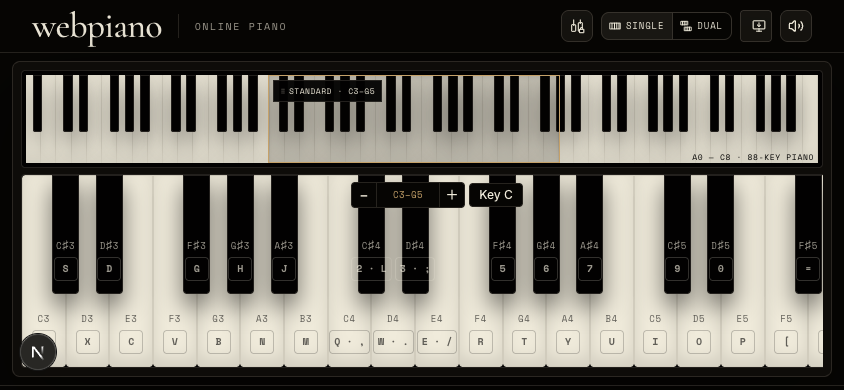
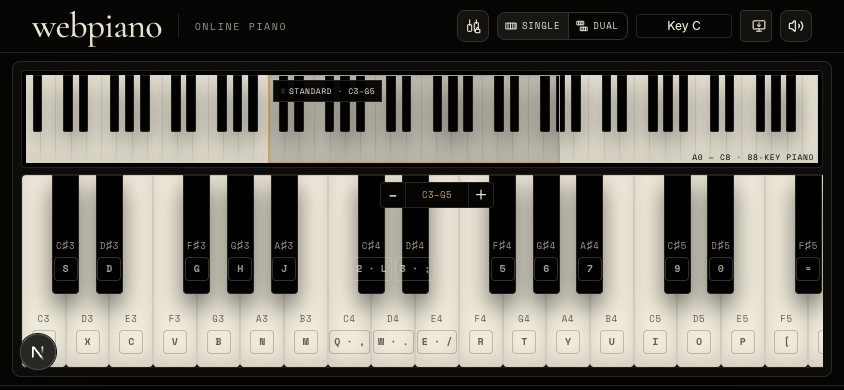
fix: move transposition readout into header

Changed region(s): [[0.5545, 0.0308, 0.8626, 0.1231], [0.4005, 0.4615, 0.6469, 0.5538]]

diff --git a/src/components/piano-keyboard-view.tsx b/src/components/piano-keyboard-view.tsx
@@ -6,7 +6,6 @@ import type {
 } from "react"
 import { useRef, useState } from "react"
 
-import { Badge } from "@/components/ui/badge"
 import { Button } from "@/components/ui/button"
 import {
   FULL_PIANO_KEYS,
@@ -18,7 +17,6 @@ import {
   STANDARD_RANGE_NOTE_COUNT,
   UPPER_RANGE_NOTE_COUNT,
   formatPianoRange,
-  formatTranspositionKey,
   getClosestFullPianoMidi,
   getFullPianoRangeBounds,
 } from "@/lib/piano"
@@ -162,43 +160,32 @@ function RangeStepper({
   zone: PianoZone | "standard"
 }) {
   const zoneLabel = zone === "standard" ? "Standard" : zone === "lower" ? "Lower" : "Upper"
-  const transpositionKey = formatTranspositionKey(startMidi)
-
   return (
-    <div className="flex items-center gap-1">
-      <div className="flex items-center overflow-hidden rounded-sm border border-border bg-background">
-        <Button
-          aria-label={`${zoneLabel} semitone down`}
-          disabled={startMidi === FULL_PIANO_MIN_MIDI}
-          size="icon-xs"
-          variant="ghost"
-          onClick={() => onRangeChange(startMidi - 1)}
-        >
-          −
-        </Button>
-        <output
-          aria-label={`${zoneLabel} range`}
-          className="grid h-6 min-w-16 place-items-center border-x border-border px-1 font-mono text-[0.5625rem] tracking-[0.06em] text-brass"
-        >
-          {formatPianoRange(startMidi, noteCount)}
-        </output>
-        <Button
-          aria-label={`${zoneLabel} semitone up`}
-          disabled={startMidi === maximumStartMidi}
-          size="icon-xs"
-          variant="ghost"
-          onClick={() => onRangeChange(startMidi + 1)}
-        >
-          ＋
-        </Button>
-      </div>
-      <Badge
-        aria-label={`${zoneLabel} transposition key ${transpositionKey}`}
-        className="h-6 min-w-14"
-        variant="outline"
+    <div className="flex items-center overflow-hidden rounded-sm border border-border bg-background">
+      <Button
+        aria-label={`${zoneLabel} semitone down`}
+        disabled={startMidi === FULL_PIANO_MIN_MIDI}
+        size="icon-xs"
+        variant="ghost"
+        onClick={() => onRangeChange(startMidi - 1)}
       >
-        Key {transpositionKey}
-      </Badge>
+        −
+      </Button>
+      <output
+        aria-label={`${zoneLabel} range`}
+        className="grid h-6 min-w-16 place-items-center border-x border-border px-1 font-mono text-[0.5625rem] tracking-[0.06em] text-brass"
+      >
+        {formatPianoRange(startMidi, noteCount)}
+      </output>
+      <Button
+        aria-label={`${zoneLabel} semitone up`}
+        disabled={startMidi === maximumStartMidi}
+        size="icon-xs"
+        variant="ghost"
+        onClick={() => onRangeChange(startMidi + 1)}
+      >
+        ＋
+      </Button>
     </div>
   )
 }

diff --git a/tests/integration/piano-instrument.test.tsx b/tests/integration/piano-instrument.test.tsx
@@ -41,7 +41,12 @@ describe("PianoInstrument", () => {
     expect(screen.getByRole("group", { name: "Playable piano" })).toBeTruthy()
     expect(screen.getAllByRole("button", { name: /Play / })).toHaveLength(32)
     expect(screen.getByRole("status", { name: "Standard range" }).textContent).toBe("C3–G5")
-    expect(screen.getByLabelText("Standard transposition key C").textContent).toBe("Key C")
+    const transpositionReadout = screen.getByLabelText("Standard transposition key C")
+    expect(transpositionReadout.textContent).toBe("Key C")
+    expect(transpositionReadout.closest("header")).toBeTruthy()
+    expect(
+      screen.getByRole("main").querySelector('section [aria-label*="transposition key"]'),
+    ).toBeNull()
     expect(screen.getByRole("button", { name: "Standard semitone down" })).toBeTruthy()
     expect(screen.getByRole("button", { name: "Standard semitone up" })).toBeTruthy()
     expect(screen.getByRole("group", { name: "Keyboard mode" })).toBeTruthy()
@@ -105,8 +110,14 @@ describe("PianoInstrument", () => {
     fireEvent.click(screen.getByRole("button", { name: "Lower semitone down" }))
     fireEvent.click(screen.getByRole("button", { name: "Upper semitone up" }))
 
-    expect(screen.getByLabelText("Lower transposition key B").textContent).toBe("Key B")
-    expect(screen.getByLabelText("Upper transposition key C♯").textContent).toBe("Key C♯")
+    const transpositionReadout = screen.getByLabelText(
+      "Lower transposition key B, Upper transposition key C♯",
+    )
+    expect(transpositionReadout.textContent).toBe("L B · U C♯")
+    expect(transpositionReadout.closest("header")).toBeTruthy()
+    expect(
+      screen.getByRole("main").querySelector('section [aria-label*="transposition key"]'),
+    ).toBeNull()
 
     fireEvent.keyDown(window, { code: "KeyZ", repeat: false })
     fireEvent.keyUp(window, { code: "KeyZ" })
@@ -168,7 +179,9 @@ describe("PianoInstrument", () => {
 
     fireEvent.click(screen.getByRole("button", { name: "Standard semitone down" }))
     expect(screen.getByRole("status", { name: "Standard range" }).textContent).toBe("B2–F♯5")
-    expect(screen.getByLabelText("Standard transposition key B").textContent).toBe("Key B")
+    const transpositionReadout = screen.getByLabelText("Standard transposition key B")
+    expect(transpositionReadout.textContent).toBe("Key B")
+    expect(transpositionReadout.closest("header")).toBeTruthy()
 
     fireEvent.keyDown(window, { code: "KeyZ", repeat: false })
     fireEvent.keyUp(window, { code: "KeyZ" })

diff --git a/src/components/piano-instrument.tsx b/src/components/piano-instrument.tsx
@@ -16,6 +16,7 @@ import {
 } from "@/components/piano-keyboard-view"
 import { PwaInstallDrawer } from "@/components/pwa-install-drawer"
 import { SiteFooter } from "@/components/site-footer"
+import { Badge } from "@/components/ui/badge"
 import { Button } from "@/components/ui/button"
 import { Separator } from "@/components/ui/separator"
 import { ToggleGroup, ToggleGroupItem } from "@/components/ui/toggle-group"
@@ -31,6 +32,7 @@ import {
   createPianoLayout,
   createStandardPianoLayout,
   formatPianoRange,
+  formatTranspositionKey,
   getPianoKeyByCode,
 } from "@/lib/piano"
 import type { PianoKey, PianoZone } from "@/lib/piano"
@@ -42,6 +44,39 @@ const VELOCITY = 0.68
 
 type AudioStatus = "idle" | "on" | "unavailable"
 type InstrumentMode = "dual-range" | "standard"
+
+function TranspositionReadout({
+  instrumentMode,
+  lowerStartMidi,
+  standardStartMidi,
+  upperStartMidi,
+}: {
+  instrumentMode: InstrumentMode
+  lowerStartMidi: number
+  standardStartMidi: number
+  upperStartMidi: number
+}) {
+  const standardKey = formatTranspositionKey(standardStartMidi)
+  const lowerKey = formatTranspositionKey(lowerStartMidi)
+  const upperKey = formatTranspositionKey(upperStartMidi)
+  const label =
+    instrumentMode === "standard"
+      ? `Standard transposition key ${standardKey}`
+      : `Lower transposition key ${lowerKey}, Upper transposition key ${upperKey}`
+
+  return (
+    <Badge
+      aria-atomic="true"
+      aria-label={label}
+      aria-live="polite"
+      className="h-6 w-24"
+      data-transposition-readout=""
+      variant="outline"
+    >
+      {instrumentMode === "standard" ? `Key ${standardKey}` : `L ${lowerKey} · U ${upperKey}`}
+    </Badge>
+  )
+}
 
 function DualRangeIcon() {
   return (
@@ -499,6 +534,12 @@ export function PianoInstrument({ structuredData }: { structuredData?: string })
                 <span className="font-mono text-[0.5625rem] tracking-[0.1em] uppercase">Dual</span>
               </ToggleGroupItem>
             </ToggleGroup>
+            <TranspositionReadout
+              instrumentMode={instrumentMode}
+              lowerStartMidi={lowerStartMidi}
+              standardStartMidi={standardStartMidi}
+              upperStartMidi={upperStartMidi}
+            />
             <PwaInstallDrawer />
             <output className="sr-only" aria-label={sustainLabel} aria-live="polite" />
             <output className="sr-only" aria-label={audioLabel} aria-live="polite" />

diff --git a/tests/e2e/landing.spec.ts b/tests/e2e/landing.spec.ts
@@ -88,7 +88,10 @@ test("opens directly into the responsive playable piano without page overflow", 
   await expect(main.getByRole("button", { name: "Pedal" })).toBeVisible()
   await expect(main.getByRole("button", { name: "Install webpiano" })).toBeVisible()
   await expect(main.getByRole("status", { name: "Standard range" })).toHaveText("C3–G5")
-  await expect(main.getByLabel("Standard transposition key C")).toHaveText("Key C")
+  const transpositionReadout = main.getByLabel("Standard transposition key C")
+  await expect(transpositionReadout).toHaveText("Key C")
+  await expect(main.locator("header").getByLabel("Standard transposition key C")).toHaveCount(1)
+  await expect(main.locator("section").getByLabel(/transposition key/)).toHaveCount(0)
   await expect(main.getByRole("status", { name: /Sustain (on|off)/ })).toBeAttached()
   await expect(main.getByRole("status", { name: "Play a note to start audio" })).toBeAttached()
   await expect(main.getByRole("group", { name: "Keyboard mode" })).toBeVisible()
@@ -232,8 +235,11 @@ test("shares one 88-key navigator between Standard and Dual Range", async ({ pag
   await expect(lowerPiano).toBeVisible()
   await expect(upperPiano).toBeVisible()
   await expect(main.getByRole("button", { name: /Play / })).toHaveCount(37)
-  await expect(main.getByLabel("Lower transposition key C")).toHaveText("Key C")
-  await expect(main.getByLabel("Upper transposition key C")).toHaveText("Key C")
+  await expect(main.getByLabel("Lower transposition key C, Upper transposition key C")).toHaveText(
+    "L C · U C",
+  )
+  await expect(main.locator("header").getByLabel(/Lower transposition key/)).toHaveCount(1)
+  await expect(main.locator("section").getByLabel(/transposition key/)).toHaveCount(0)
 
   const minimumZoneHeight = testInfo.project.name === "desktop-chromium" ? 300 : 120
   await expect
@@ -250,7 +256,9 @@ test("shares one 88-key navigator between Standard and Dual Range", async ({ pag
 
   await main.getByRole("button", { name: "Lower semitone down" }).click()
   await expect(main.getByRole("status", { name: "Lower range" })).toHaveText("B2–D♯4")
-  await expect(main.getByLabel("Lower transposition key B")).toHaveText("Key B")
+  await expect(main.getByLabel("Lower transposition key B, Upper transposition key C")).toHaveText(
+    "L B · U C",
+  )
 
   const lowerC = main.getByRole("button", { name: "Play B2 with Z" })
   await page.keyboard.down("z")

diff --git a/docs/DESIGN.md b/docs/DESIGN.md
@@ -44,13 +44,13 @@ The base radius is 4px. Panels may use 8px (`rounded-lg`); controls and labels s
 - Dual Range reuses the same 88-key navigator with two draggable, semitone-snapped translucent LOWER/UPPER ranges. LOWER exposes 17 bindings (`Z–/`) and UPPER exposes 20 (`Q–]`) in enlarged keyboards below it.
 - The standard first view exposes 32 notes from the same 37 physical bindings, combines overlapping key labels, and moves the complete range one semitone at a time through the stepper or global `←` / `→` shortcuts.
 - The standard range summary reserves a 56px slot for its note span so adding one or two `♯` glyphs never shifts the trailing `· 32 notes` label.
-- Every range stepper pairs its note span with a fixed-width rectangular `KEY C` label that follows the start pitch class; `KEY` describes chromatic transposition and never claims a major or minor mode.
+- The header carries one fixed-width transposition readout beside the keyboard-mode control, leaving the navigator and playable piano free of extra status UI. It shows `KEY C` in Single mode and a compact `L C · U C` in Dual mode; `KEY` describes chromatic transposition and never claims a major or minor mode.
 - The same summary distinguishes `32 notes` (unique pitches on the merged standard keyboard) from `37 keys` (physical QWERTY bindings).
 - The instrument uses landscape as the primary phone layout. Portrait shows only a restrained orientation guide; the playable surface is not compressed into portrait.
 - Piano keys are specialized native buttons with visible note/PC-key labels, a physical two-black/three-black pattern, pressed state, pointer capture, and keyboard/assistive activation.
 - “Use phone as pedal” opens a focused shadcn Dialog with a short-lived QR code. After pairing, the Dialog closes so the keyboard remains playable and the header retains the connection control.
 - The pedal icon opens one menu containing Sustain Lock and “Use phone as pedal”. Its open-lock/closed-lock detail distinguishes unlocked and locked state, while the button surface still reflects sustain arriving from either the lock or phone pedal. Space toggles the same Sustain Lock instead of acting as a hold-to-sustain key. The QR dialog keeps one fixed-height session slot across creating, waiting, failure, and connected states.
-- Header controls keep one clear responsibility each: the pedal icon owns sustain state, an explicit `SINGLE | DUAL` ToggleGroup selects keyboard mode, the fixed-width Install control invokes a captured desktop install prompt directly and otherwise opens the A2HS Drawer, and the speaker button toggles Mute/Unmute with `Volume2`/`VolumeX`. Sustain and audio-engine status remain available to assistive technology without duplicate visual badges.
+- Header controls keep one clear responsibility each: the pedal icon owns sustain state, an explicit `SINGLE | DUAL` ToggleGroup selects keyboard mode, its adjacent fixed-width readout reports the active transposition without covering the piano, the fixed-width Install control invokes a captured desktop install prompt directly and otherwise opens the A2HS Drawer, and the speaker button toggles Mute/Unmute with `Volume2`/`VolumeX`. Sustain and audio-engine status remain available to assistive technology without duplicate visual badges.
 - The Install control never mounts or unmounts in response to browser capability. Its fixed header slot remains stable while supported desktop browsers receive the captured native prompt in one click, and the Drawer switches a reserved, same-geometry content area between shadcn Skeleton, native install fallback, iPhone/iPad Add to Home Screen instructions, generic browser instructions, and installed confirmation.
 - `/pedal/[sessionId]` is a dedicated full-screen controller: small diagnostic connection copy above one large metal pedal rendered with semantic-token SVG/CSS. It has no piano keyboard or marketing content.
 
@@ -64,7 +64,7 @@ The base radius is 4px. Panels may use 8px (`rounded-lg`); controls and labels s
 - The approved shared navigator and icon system are recorded in `unified-88-navigator-standard-desktop.png`, `unified-88-navigator-dual-desktop.png`, their mobile landscape counterparts, and `header-icons-labeled-dual-desktop.png`.
 - The explicit mode and sound toggle states are recorded in `header-mode-sound-toggles-single.png`, `header-mode-sound-toggles-dual-muted.png`, and the mobile header variant.
 - The approved Sustain Lock and PWA install flow is recorded in `pedal-lock-states-desktop.png`, `pedal-install-header-desktop.png`, `a2hs-drawer-desktop.png`, and `a2hs-drawer-mobile-landscape.png`.
-- The transposition-key label is recorded in `transposition-key-standard-desktop.png`, `transposition-key-dual-desktop.png`, and `transposition-key-standard-mobile-landscape.png`.
+- The unobtrusive header transposition readout is recorded in `transposition-key-standard-desktop.png`, `transposition-key-dual-desktop.png`, and `transposition-key-standard-mobile-landscape.png`.
 
 ## Motion
 

diff --git a/docs/TESTING.md b/docs/TESTING.md
@@ -34,7 +34,7 @@ bun run cf:build
 
 ## Acceptance surfaces
 
-- Immediate standard-piano rendering, explicit `32 notes · 37 keys` counts, one 88-key navigator with a draggable STANDARD gauge, button and `←` / `→` semitone movement, a fixed-width `KEY C` transposition label that follows each independent range, a stable count marker across natural/sharp ranges, keyboard/pointer input, sustain, and stuck-note cleanup.
+- Immediate standard-piano rendering, explicit `32 notes · 37 keys` counts, one 88-key navigator with a draggable STANDARD gauge, button and `←` / `→` semitone movement, one fixed-width header transposition readout that follows the active Single or Dual ranges without adding UI above the piano, a stable count marker across natural/sharp ranges, keyboard/pointer input, sustain, and stuck-note cleanup.
 - Opt-in Dual Range mode reusing the same 88-key navigator with two independently draggable LOWER/UPPER gauges, session-only settings, and safe drop-time layout changes.
 - Header semantics and visuals: the pedal trigger distinguishes unlocked and locked sustain, Space toggles the same manual lock without keyup release, `SINGLE | DUAL` is an exclusive ToggleGroup, the fixed-width Install trigger does not shift when capability changes, and the sound button exposes Mute/Unmute through `aria-pressed` and matching speaker icons while assistive engine status remains live.
 - Muting ramps existing voices silent, starts later voices muted, restores every active voice on unmute, and does not change the selected keyboard mode.
